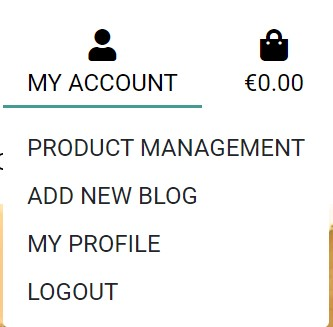
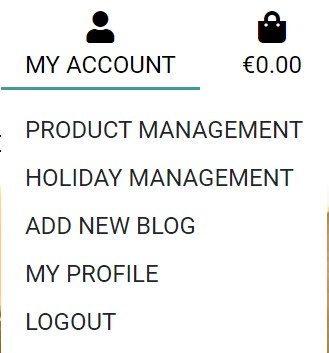
Add Features section - part 3

diff --git a/README.md b/README.md
@@ -53,7 +53,7 @@ The project was created as a **Milestone Project 4** as a part of **Diploma in F
 
 Trail running is simply defined as going for a run at the heart of nature. It's an extremely all-round non-stadia sport that and you don't need to be high in the mountains to go trail running. You simply need to be in nature.
 
-<h2 align="center"><img src="readme-files/general/project_mockup_1.jpg" alt="my account" target="_blank" width="70%" height="70%"></h2>
+<h2 align="center"><img src="readme-files/general/project_mockup_1.jpg" alt="my account" target="_blank" width="85%" height="85%"></h2>
 
 **Please note, this project is for educational purposes only and provided information is fictional. Nevertheless, all the website functionalities work.**
 
@@ -106,13 +106,13 @@ I've used [Lucidchart](https://www.lucidchart.com/) to draw Page Structure
 
 - Navbar
     - responsive on all devices
-    - the logo is located in the top left corner on large devices (desktop) and in the center on the smaller devices (tablets and mobile phones). When logo is clicked it redirects a user to the home page. On smaller devices (tablet, mobile) the navbar is collapsed into a toggler.
-    - a search box is a part of the top navigation loacted at upper center of navbar where a user can search for products. On mobile and tablet devices it is located under the toggler.
-    - navbar contains as well my account and cart icons. The cart icon with grand total will be displayed if there are items assed to the cart. It changes colour to the green when a product is added to the cart to catch the user's attention. Clicking the cart icon redirects a user to the shopping cart page.
+    - the logo is located in the top left corner on large devices (desktop) and in the center on the smaller devices (tablets and mobile phones). When logo is clicked it redirects a user to the home page. On smaller devices (tablet, mobile) the navbar is collapsed into a hamburger menu.
+    - a search box is a part of the top navigation loacted at upper center of navbar where a user can search for products. On mobile and tablet devices it is located under the hamburger menu.
+    - navbar contains also my account and cart icons. The cart icon with grand total will be displayed if there are items assed to the cart. It changes colour to the green when a product is added to the cart to catch the user's attention. Clicking the cart icon redirects a user to the shopping cart page.
     - the difference in My Account display is for a regular user and for admin (super user).<br>
     
 
-    For **Admin user** it contains Product Management, Add New Blog, My Profile, and Logout links. Under the Product Management page, the admin can add new products <br>
+    For **Admin user** (superuser) it contains Product Management, Holiday Management, Add New Blog, My Profile, and Logout links. Under the Product Management page, the admin can add new products <br>
 
     <h2 align="center"><img src="readme-files/features/admin_user.jpg" alt="my account" target="_blank" width="30%" height="30%"></h2>
 
@@ -123,12 +123,12 @@ I've used [Lucidchart](https://www.lucidchart.com/) to draw Page Structure
 - Search Functionality
     - as previously mentioned, a search box is part of the top navigation and is, therefore, accessible on all pages.
     - it is collapsed under the hamburger menu on tablet and mobile devices as shown in the image below.
-    - it allows customers to enter keywords associated with the products they wish to purchase.
+    - it allows customers to enter keywords associated with the shop products they wish to purchase. 
     - the search results show the number of products found for the search query, as well as inform the user if no products were found.
     
     <br>
 
-    <h2 align="center"><img src="readme-files/features/search_bar.jpg" alt="my account" target="_blank" width="50%" height="50%"></h2>
+    <h2 align="center"><img src="readme-files/features/search_bar.jpg" alt="my account" target="_blank" width="60%" height="60%"></h2>
 
 - Footer
     - the footer is standard across all pages on the website.
@@ -140,6 +140,21 @@ I've used [Lucidchart](https://www.lucidchart.com/) to draw Page Structure
 
 
 - Home App
+    - The main purpose of the home page is to allure new users to the website, give a clear understanding of the business and to capture their interest by using the website's functionalities. Smooth animation on scroll is applied throughout the pages. The home page consists of 7 sections.
+
+        - **Hero image** contains a full-screen background image, main heading with a sub-heading and "Explore" button that redirects a user to the Trail running holidays page. The purpose of the effective hero image is used to gain instant user attention and to call to an action.
+
+        - **Introduction** section contains an introduction about the company, what it offers and what can be explored on the website. It contains a heading, a paragraph section and "Find out more" button which redirects to Our Story page. Also a mountain range image is placed as a background in order to grab users attention.
+
+        - **Trail Running Holidays** section displays three trail running holiday tour cards. Holiday tour cards consist of animated on hover image with tour title, and a card content section. On the bottom section par, a button "Explore more" is located that redirects to the Trail Running Holidays page.
+
+        - **Shop products** section displays three product categories (Shirts, Accessories, and Drinkware) along with a button "Shop All" which redirects to the Products page.
+
+        - **Benefits** section provides information to the user about some of the advantages of the company and why to make the business with us. Three cards with animation were stratigically placed. When the user hovers over each image, additional text with animation will appear. Also when the user clicks on the each image it redirects the user to Our Story page.
+
+        - **Blog** section (News from Basecamp) contains two blog post with an image and a blog content. At the bottom a 'comment' icon is located which indicates are there any comments added to a particular blog post.
+
+        - **Customer Reviews** section contains the customer's reviews carousel. This section is static but it is planned to implement a dynamic showcase of user's reviews.
 
 - About App
 
